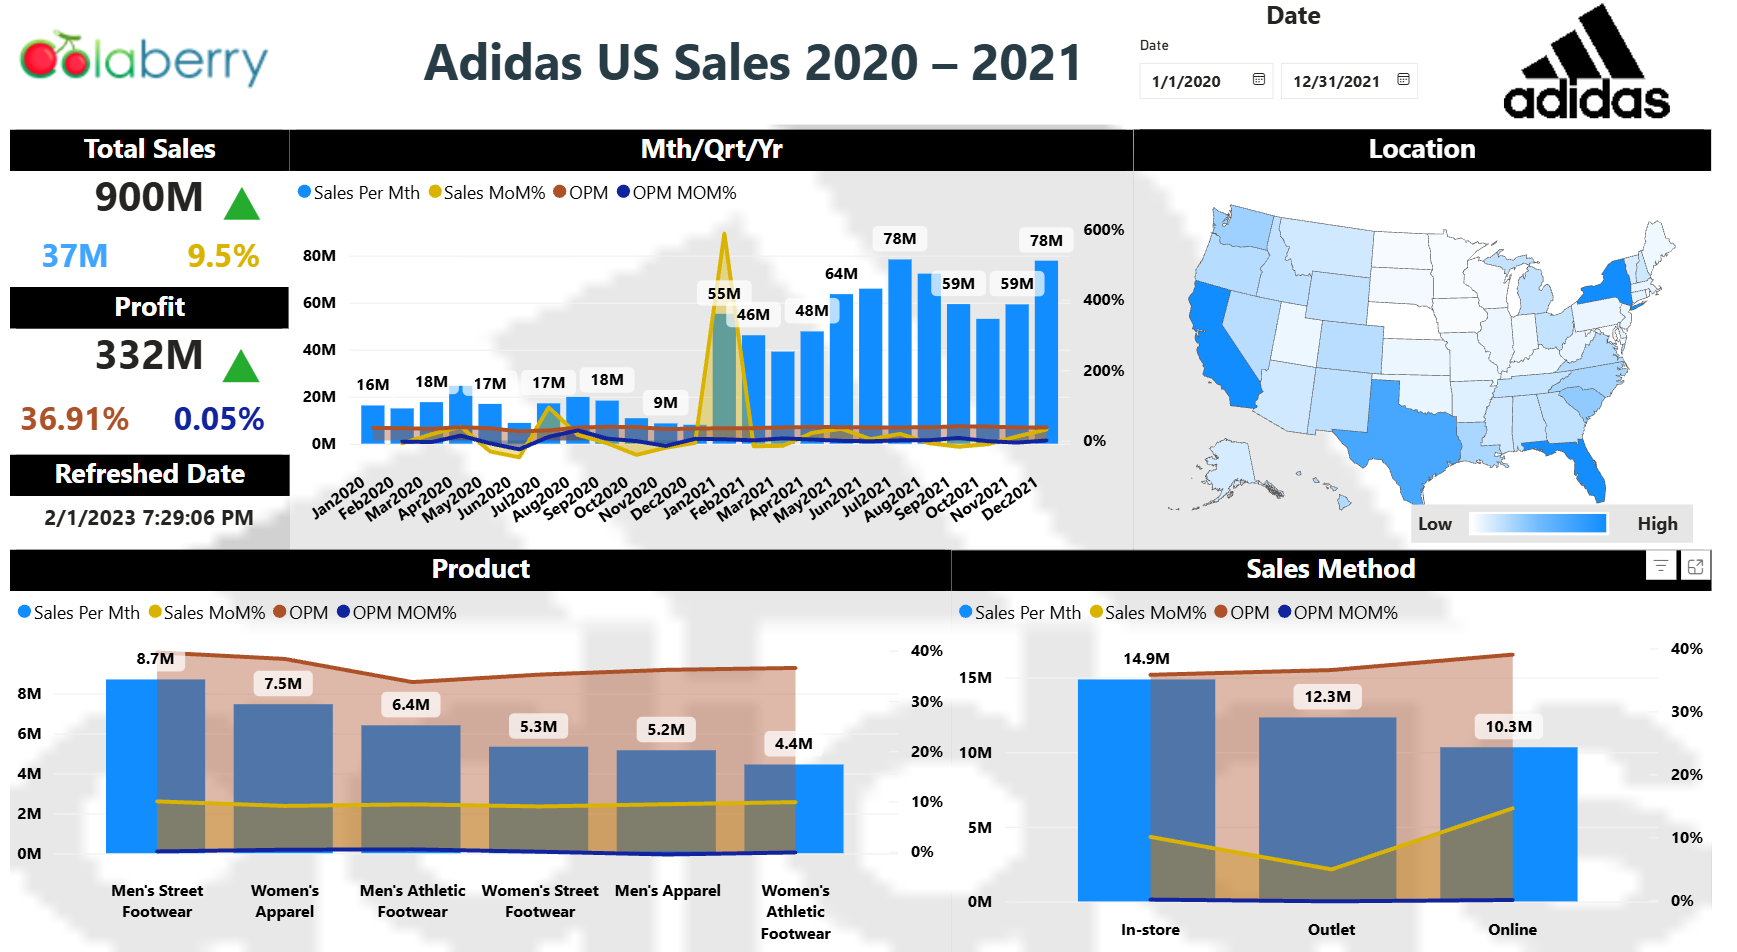
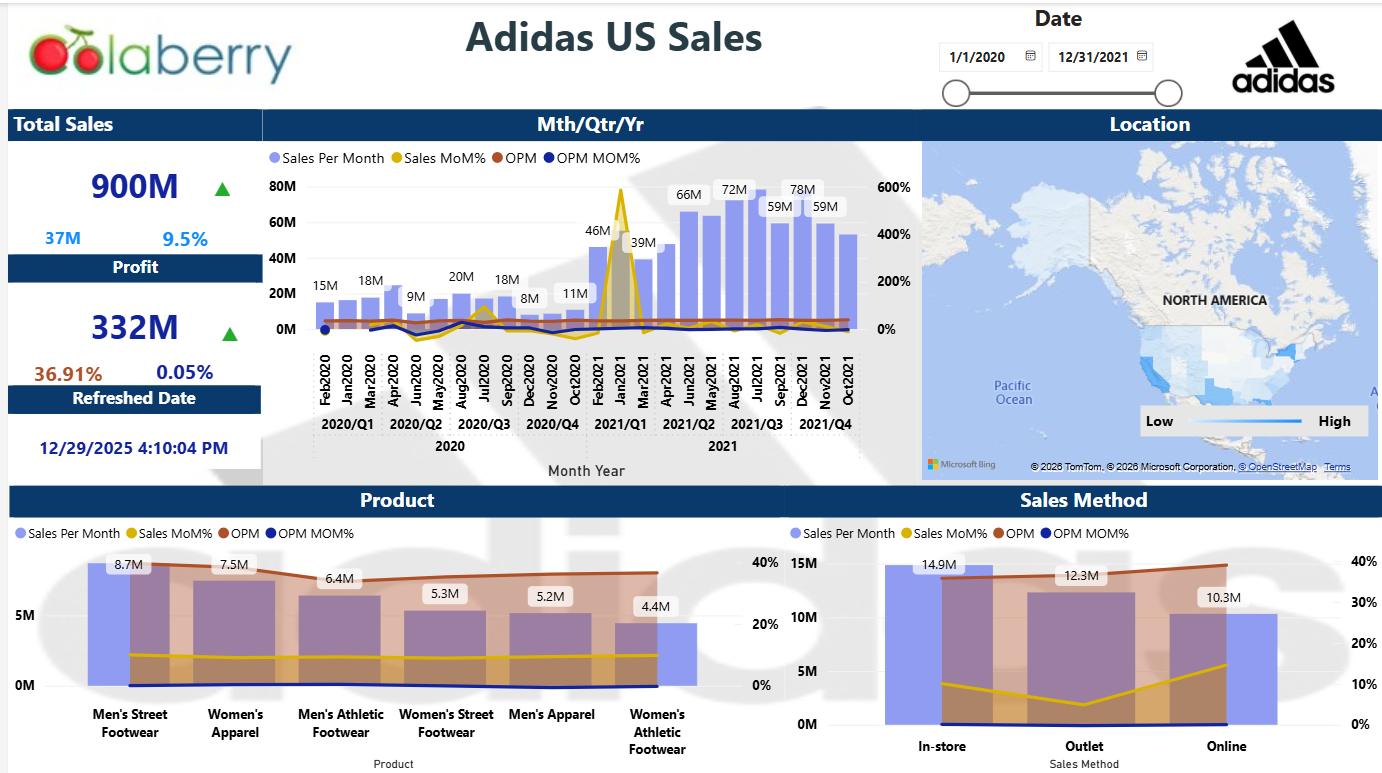
feat: replace Adidas dashboard screenshot with updated version

diff --git a/progress.md b/progress.md
@@ -2832,6 +2832,26 @@ The existing workflow was pinned to Node 20; the user's spec asked for Node 22.
 
 ---
 
+## Adidas Dashboard Screenshot Replaced ✔
+
+**Objective:** on request, swap the Adidas dashboard image for an updated screenshot.
+
+### Changes
+
+- Overwrote `client/public/adidas-dashboard.png` with the new user-supplied screenshot (an updated version of the dashboard — different map style/layout, dated 12/29/2025 refresh vs. the prior 2/1/2023). No code changes needed since `imageUrl` already points to this filename.
+
+### Files Modified
+
+- `client/public/adidas-dashboard.png`
+- `progress.md` — this entry
+
+### Validation Results
+
+- `docker compose up --build -d` — all containers healthy
+- Playwright verification against the Dockerized site: new image confirmed fully loaded (`naturalWidth: 1382`, matching the new file) on both the case-study hero and the grid card; zero console errors
+
+---
+
 ## Current Sprint
 
 *Version 2.1 (Docker) complete and validated locally. Awaiting direction: deploy (Dockerized or otherwise), wire the client to consume the live API, refresh `requirements.md` for the new structure, begin Version 2.2 (Kubernetes/cloud container work), or move on to Version 1.1 content/feature work.*